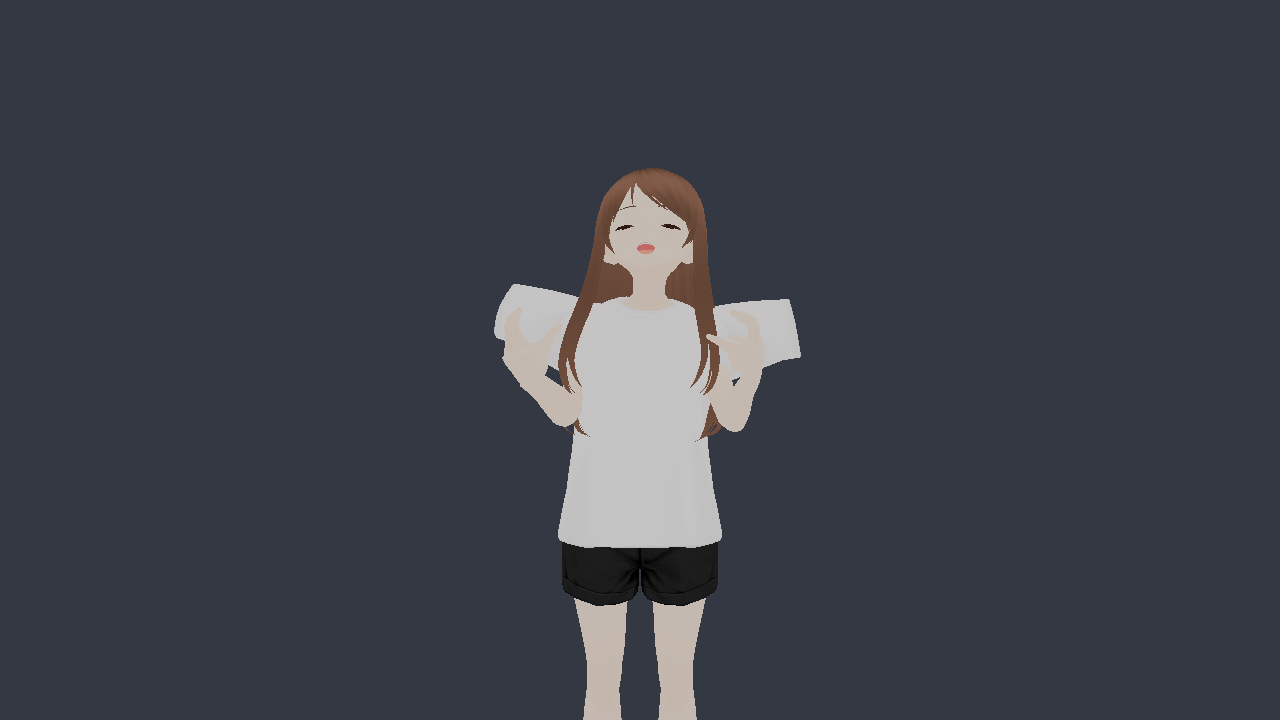
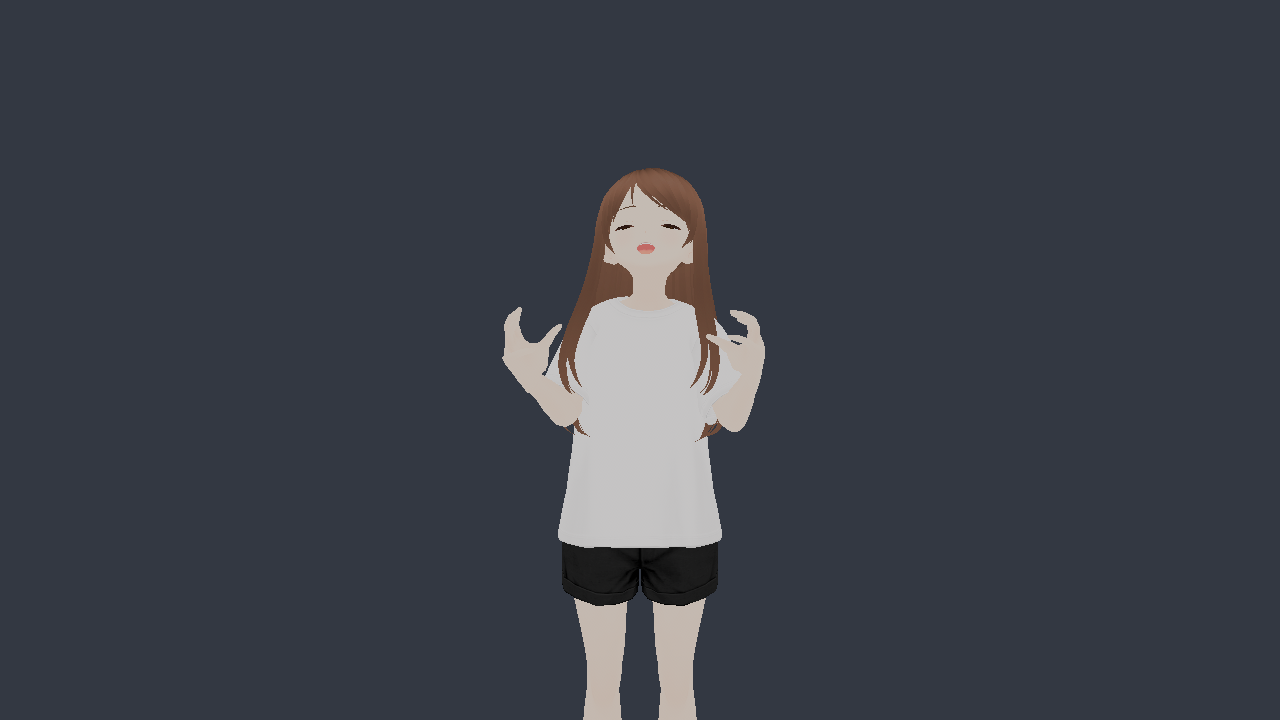
Fix sleeves floating: merge node constraints that share a source (vendored bevy_vrm1 patch 2); refresh Twist renders

Changed region(s): [[0.375, 0.3972, 0.4688, 0.55], [0.5625, 0.3972, 0.625, 0.5194]]

diff --git a/vendor/bevy_vrm1/src/vrm/node_constraint/initialize.rs b/vendor/bevy_vrm1/src/vrm/node_constraint/initialize.rs
@@ -4,6 +4,7 @@ use crate::vrm::node_constraint::{
     AimConstraintDest, AimConstraintDestinations, RollConstraintDest, RollConstraintDestinations,
     RotationConstraintDest, RotationConstraintDestinations,
 };
+use bevy::platform::collections::HashMap;
 use bevy::prelude::*;
 
 #[derive(EntityEvent)]
@@ -20,6 +21,17 @@ impl Plugin for NodeConstraintInitializePlugin {
     }
 }
 
+/// Destinations gathered per source entity, so that several constraints with the same source are
+/// inserted together. Inserting them one by one through `Commands` replaced the earlier ones, because
+/// the component is not visible to the query until the commands are applied (a patch to upstream
+/// bevy_vrm1; see PATCHES.md).
+#[derive(Default)]
+struct Gathered {
+    rotation: HashMap<Entity, Vec<RotationConstraintDest>>,
+    roll: HashMap<Entity, Vec<RollConstraintDest>>,
+    aim: HashMap<Entity, Vec<AimConstraintDest>>,
+}
+
 fn apply_initialize_node_constraints(
     trigger: On<RequestInitializeNodeConstraints>,
     mut commands: Commands,
@@ -33,6 +45,7 @@ fn apply_initialize_node_constraints(
     let Ok((vrm, nodes)) = models.get(root) else {
         return;
     };
+    let mut gathered = Gathered::default();
     for (name, constraints) in nodes.iter() {
         let Some(dest) = child_searcher.find_from_name(root, name.as_str()) else {
             continue;
@@ -40,123 +53,63 @@ fn apply_initialize_node_constraints(
         for constraint in constraints {
             match constraint {
                 Constraint::Rotation { source, weight } => {
-                    register_rotation_constraint(
-                        vrm,
-                        &mut commands,
-                        &mut rotation_constraints,
-                        dest,
-                        source,
-                        *weight,
-                        &child_searcher,
-                    );
+                    if let Some(source) = child_searcher.find_from_name(vrm, source) {
+                        gathered
+                            .rotation
+                            .entry(source)
+                            .or_default()
+                            .push(RotationConstraintDest { dest, weight: *weight });
+                    }
                 }
                 Constraint::Roll {
                     roll_axis,
                     source,
                     weight,
                 } => {
-                    register_roll_constraint(
-                        vrm,
-                        &mut commands,
-                        &mut roll_constraints,
-                        dest,
-                        source,
-                        *roll_axis,
-                        *weight,
-                        &child_searcher,
-                    );
+                    if let Some(source) = child_searcher.find_from_name(vrm, source) {
+                        gathered.roll.entry(source).or_default().push(RollConstraintDest {
+                            roll_axis: *roll_axis,
+                            dest,
+                            weight: *weight,
+                        });
+                    }
                 }
                 Constraint::Aim {
                     aim_axis,
                     source,
                     weight,
                 } => {
-                    register_aim_constraint(
-                        vrm,
-                        &mut commands,
-                        &mut aim_constraints,
-                        dest,
-                        source,
-                        *aim_axis,
-                        *weight,
-                        &child_searcher,
-                    );
+                    if let Some(source) = child_searcher.find_from_name(vrm, source) {
+                        gathered.aim.entry(source).or_default().push(AimConstraintDest {
+                            aim_axis: *aim_axis,
+                            dest,
+                            weight: *weight,
+                        });
+                    }
                 }
             }
         }
     }
-}
 
-fn register_rotation_constraint(
-    vrm: Entity,
-    commands: &mut Commands,
-    rotation_constraints: &mut Query<Option<&mut RotationConstraintDestinations>>,
-    dest: Entity,
-    source_name: &str,
-    weight: f32,
-    child_searcher: &ChildSearcher,
-) {
-    if let Some(source) = child_searcher.find_from_name(vrm, source_name) {
+    for (source, dests) in gathered.rotation {
         if let Ok(Some(mut existing)) = rotation_constraints.get_mut(source) {
-            existing.0.push(RotationConstraintDest { dest, weight });
+            existing.0.extend(dests);
         } else {
-            commands
-                .entity(source)
-                .insert(RotationConstraintDestinations(vec![
-                    RotationConstraintDest { dest, weight },
-                ]));
+            commands.entity(source).insert(RotationConstraintDestinations(dests));
         }
     }
-}
-
-fn register_roll_constraint(
-    vrm: Entity,
-    commands: &mut Commands,
-    rotation_constraints: &mut Query<Option<&mut RollConstraintDestinations>>,
-    dest: Entity,
-    source_name: &str,
-    roll_axis: Dir3,
-    weight: f32,
-    child_searcher: &ChildSearcher,
-) {
-    if let Some(source) = child_searcher.find_from_name(vrm, source_name) {
-        let roll_constraint = RollConstraintDest {
-            roll_axis,
-            dest,
-            weight,
-        };
-        if let Ok(Some(mut existing)) = rotation_constraints.get_mut(source) {
-            existing.0.push(roll_constraint);
+    for (source, dests) in gathered.roll {
+        if let Ok(Some(mut existing)) = roll_constraints.get_mut(source) {
+            existing.0.extend(dests);
         } else {
-            commands
-                .entity(source)
-                .insert(RollConstraintDestinations(vec![roll_constraint]));
+            commands.entity(source).insert(RollConstraintDestinations(dests));
         }
     }
-}
-
-fn register_aim_constraint(
-    vrm: Entity,
-    commands: &mut Commands,
-    rotation_constraints: &mut Query<Option<&mut AimConstraintDestinations>>,
-    dest: Entity,
-    source_name: &str,
-    roll_axis: Dir3,
-    weight: f32,
-    child_searcher: &ChildSearcher,
-) {
-    if let Some(source) = child_searcher.find_from_name(vrm, source_name) {
-        let roll_constraint = AimConstraintDest {
-            aim_axis: roll_axis,
-            dest,
-            weight,
-        };
-        if let Ok(Some(mut existing)) = rotation_constraints.get_mut(source) {
-            existing.0.push(roll_constraint);
+    for (source, dests) in gathered.aim {
+        if let Ok(Some(mut existing)) = aim_constraints.get_mut(source) {
+            existing.0.extend(dests);
         } else {
-            commands
-                .entity(source)
-                .insert(AimConstraintDestinations(vec![roll_constraint]));
+            commands.entity(source).insert(AimConstraintDestinations(dests));
         }
     }
 }

diff --git a/vendor/bevy_vrm1/PATCHES.md b/vendor/bevy_vrm1/PATCHES.md
@@ -35,6 +35,10 @@ Test: `crates/avatar/tests/vrm_expression_defaults.rs` (the crate's own lib test
 
 No source change. `crates/avatar/Cargo.toml` enables the crate feature `log` (`log = ["bevy/bevy_log"]`), which makes the `vrm_error!` macro in `src/error.rs` print "Failed to load VRM extensions: ..." in `spawn_vrm`. Without it the error was swallowed. The app still waits for `ExpressionEntityMap` without a timeout; a failed model is now reported but the replay does not exit by itself.
 
+## Patch 2: constraints that share a source are merged
+
+File: `src/vrm/node_constraint/initialize.rs`. Each constraint was registered by looking up the source's `...ConstraintDestinations` component and either pushing to it or inserting a new one through `Commands`. Commands are applied later, so when two constraints had the same source in one pass (the VRM1 Constraint Twist sample has `J_Aim_L_Shoulder` and `J_Aim_L_TopsUpperArm`, both aimed at the same bone), the second insert replaced the first and one of the two helper bones never followed the arm: the sleeve stayed in the T pose while the arm moved. The patch gathers the destinations per source first and inserts each component once. Seen in `fixtures/private/out/photo_to_avatar/` renders of the Twist sample (the left sleeve floating beside the raised arm).
+
 ## Upstream
 
 Not reported yet. Suggested place: issue #64 (VRM 1.0 / VRMA spec-compliance gaps). Suggested extra hardening there: do not remove `VrmHandle` before the extension parse succeeds. Remove this vendor directory and the `[patch.crates-io]` entry once upstream releases the fix.
